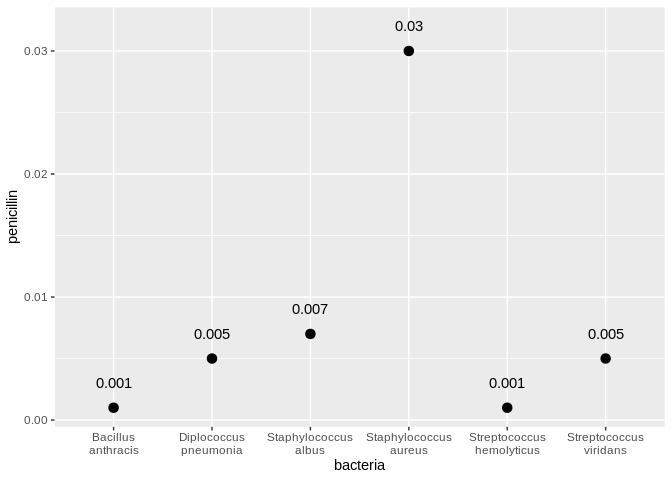
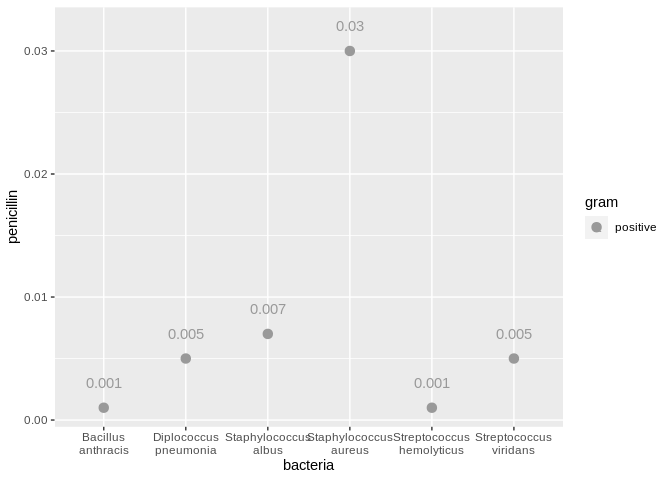
Update

diff --git a/c05-antibiotics-assignment.md b/c05-antibiotics-assignment.md
@@ -68,20 +68,21 @@ for more information.
 library(tidyverse)
 ```
 
-    ## ── Attaching packages ─────────────────────────────────────── tidyverse 1.3.0 ──
+    ## ── Attaching packages ────────────────────────────────────────────────────────────────────────────────────────────────────── tidyverse 1.3.0 ──
 
     ## ✓ ggplot2 3.3.2     ✓ purrr   0.3.4
     ## ✓ tibble  3.0.3     ✓ dplyr   1.0.0
     ## ✓ tidyr   1.1.0     ✓ stringr 1.4.0
     ## ✓ readr   1.3.1     ✓ forcats 0.5.0
 
-    ## ── Conflicts ────────────────────────────────────────── tidyverse_conflicts() ──
+    ## ── Conflicts ───────────────────────────────────────────────────────────────────────────────────────────────────────── tidyverse_conflicts() ──
     ## x dplyr::filter() masks stats::filter()
     ## x dplyr::lag()    masks stats::lag()
 
 ``` r
 library(ggrepel)
 library(stringr)
+library(wesanderson)
 ```
 
 *Background*: The data\[1\] we study in this challenge report the
@@ -167,10 +168,11 @@ effectiveness?
 ## TASK: Create your visualization
 df_antibiotics %>% 
   filter(penicillin <= 0.1) %>%
-  ggplot(aes(x = bacteria, y = penicillin)) +
+  ggplot(aes(x = bacteria, y = penicillin, color = gram)) +
   geom_point(size = 3) +
   geom_text(aes(label=penicillin), nudge_y = 0.002) +
-  scale_x_discrete(labels = function(bacteria) str_wrap(bacteria, width = 10))
+  scale_x_discrete(labels = function(bacteria) str_wrap(bacteria, width = 10)) + 
+  scale_color_manual(values=c("#999999", "#E69F00"))
 ```
 
 ![](c05-antibiotics-assignment_files/figure-gfm/q1-task-1.png)<!-- -->
@@ -178,10 +180,11 @@ df_antibiotics %>%
 ``` r
 df_antibiotics %>% 
   filter(streptomycin <= 0.1) %>%
-  ggplot(aes(x = bacteria, y = streptomycin)) +
+  ggplot(aes(x = bacteria, y = streptomycin, color = gram)) +
   geom_point(size = 3) +
   geom_text(aes(label=streptomycin), nudge_y = 0.005) +
-  scale_x_discrete(labels = function(bacteria) str_wrap(bacteria, width = 10))
+  scale_x_discrete(labels = function(bacteria) str_wrap(bacteria, width = 10)) + 
+  scale_color_manual(values=c("#999999", "#E69F00"))
 ```
 
 ![](c05-antibiotics-assignment_files/figure-gfm/q1-task-2.png)<!-- -->
@@ -189,10 +192,11 @@ df_antibiotics %>%
 ``` r
 df_antibiotics %>% 
   filter(neomycin < 0.1) %>%
-  ggplot(aes(x = bacteria, y = neomycin)) +
+  ggplot(aes(x = bacteria, y = neomycin, color = gram)) +
   geom_point(size = 3) + 
   geom_text(aes(label=neomycin), nudge_y = 0.005) +
-  scale_x_discrete(labels = function(bacteria) str_wrap(bacteria, width = 10))
+  scale_x_discrete(labels = function(bacteria) str_wrap(bacteria, width = 10)) + 
+  scale_color_manual(values=c("#999999", "#E69F00"))
 ```
 
 ![](c05-antibiotics-assignment_files/figure-gfm/q1-task-3.png)<!-- -->
